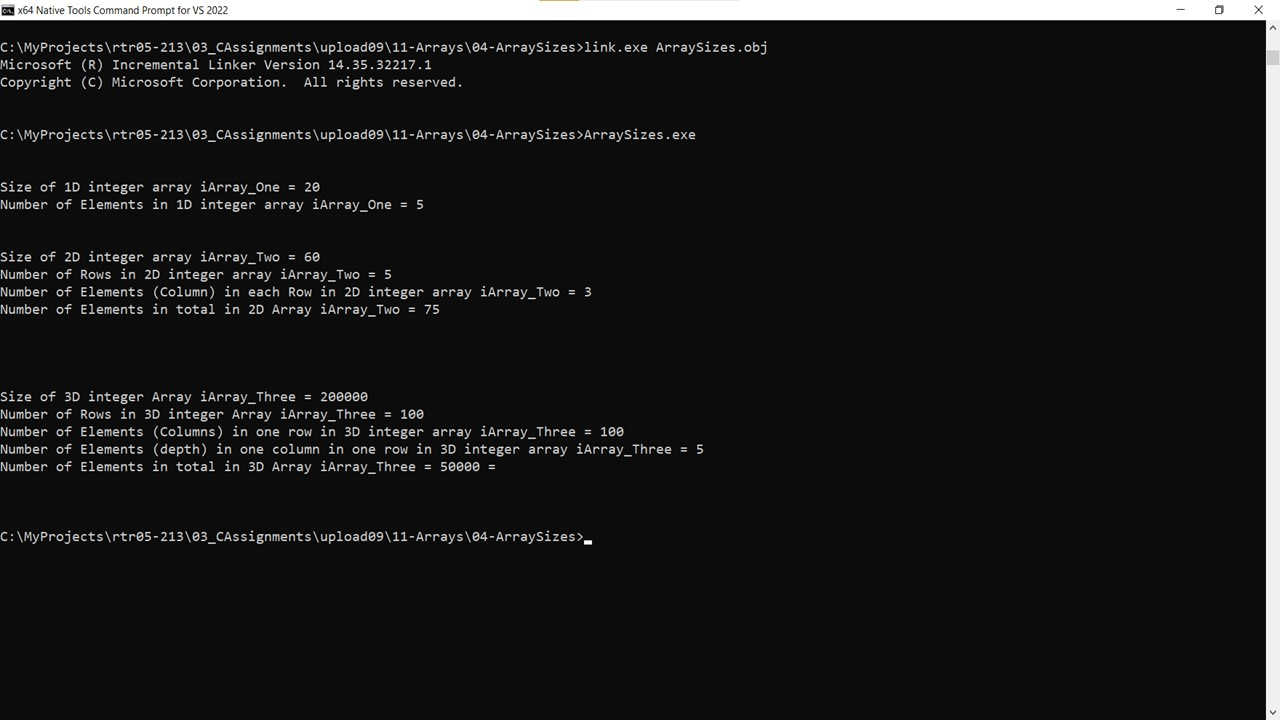
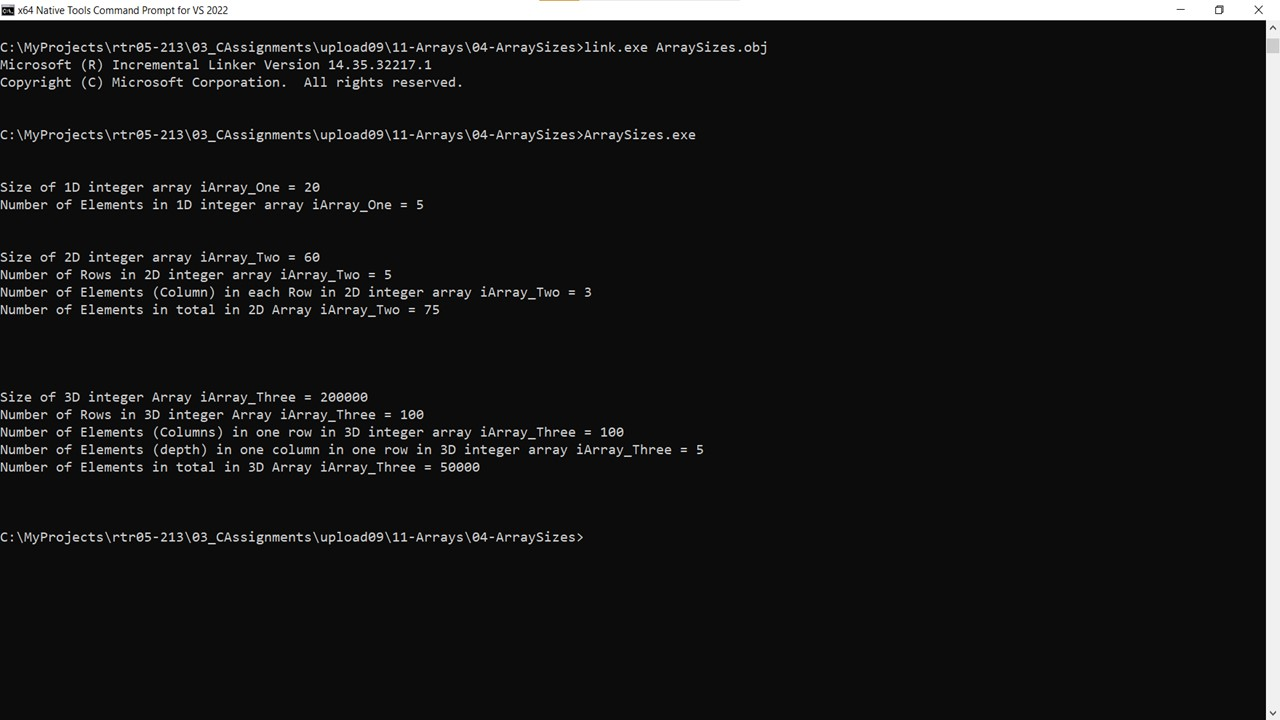
upload08.final

diff --git a/03_CAssignments/upload09/11-Arrays/04-ArraySizes/ArraySizes.cpp b/03_CAssignments/upload09/11-Arrays/04-ArraySizes/ArraySizes.cpp
@@ -44,7 +44,7 @@ int main(void)
 	printf("Number of Elements (depth) in one column in one row in 3D integer array iArray_Three = %lu\n", (sizeof(SiArray_Three[0][0]) / sizeof(SiArray_Three[0][0][0])));
 	S_depth_3D = (sizeof(SiArray_Three[0][0]) / sizeof(SiArray_Three[0][0][0]));
 
-	printf("Number of Elements in total in 3D Array iArray_Three = %d = \n", (S_num_rows_3D * S_num_columns_3D * S_depth_3D));
+	printf("Number of Elements in total in 3D Array iArray_Three = %d  \n", (S_num_rows_3D * S_num_columns_3D * S_depth_3D));
 
 	printf("\n\n");
 
